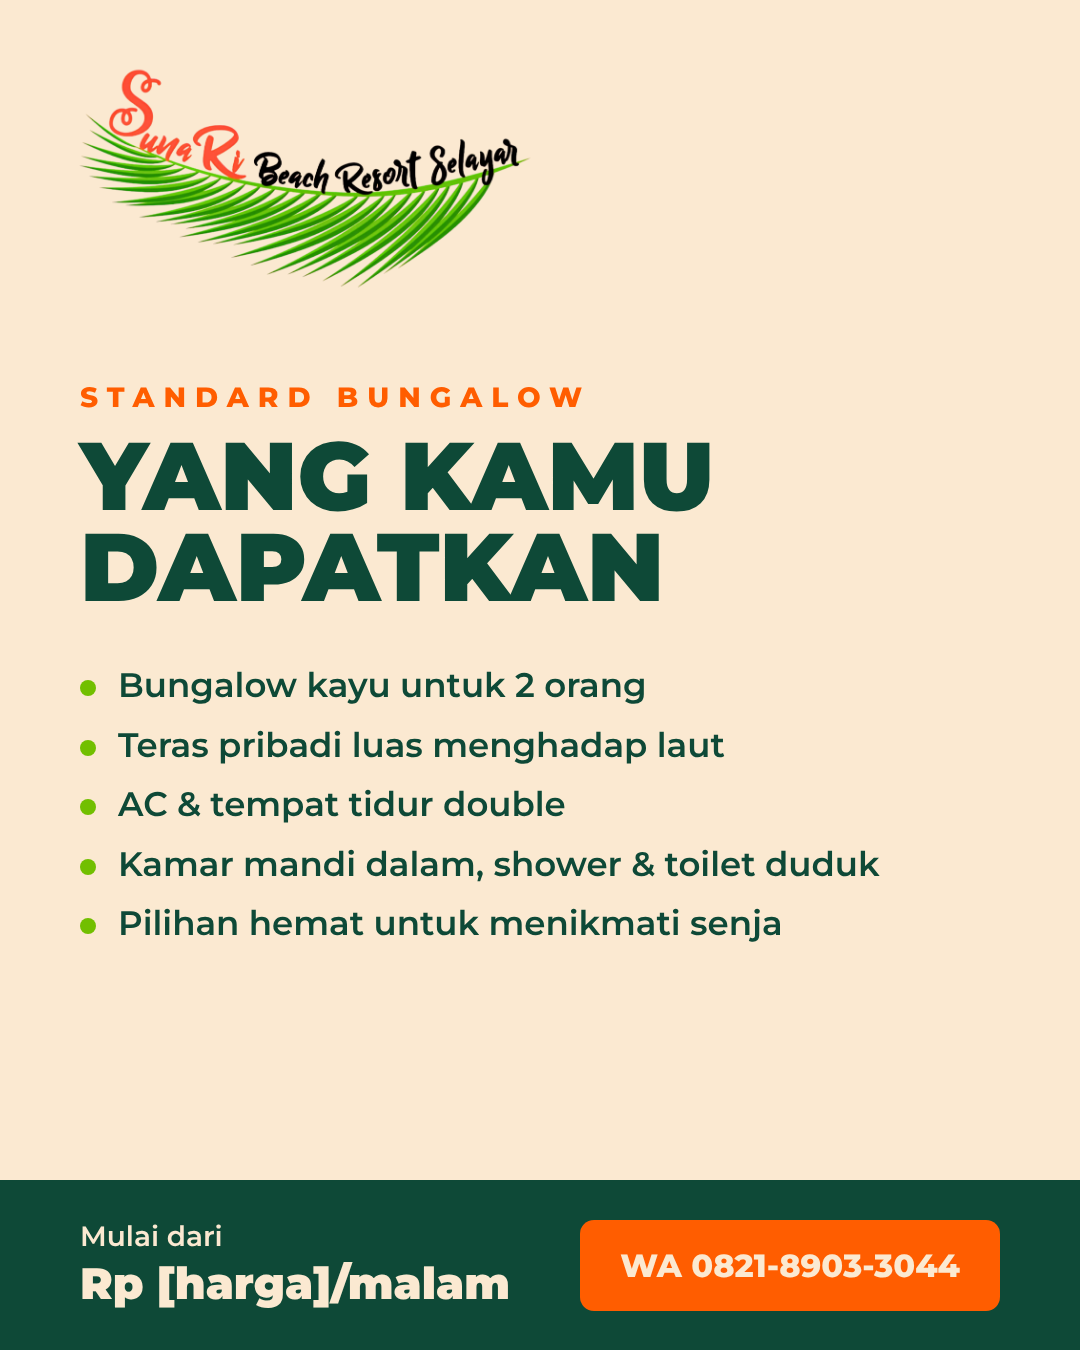
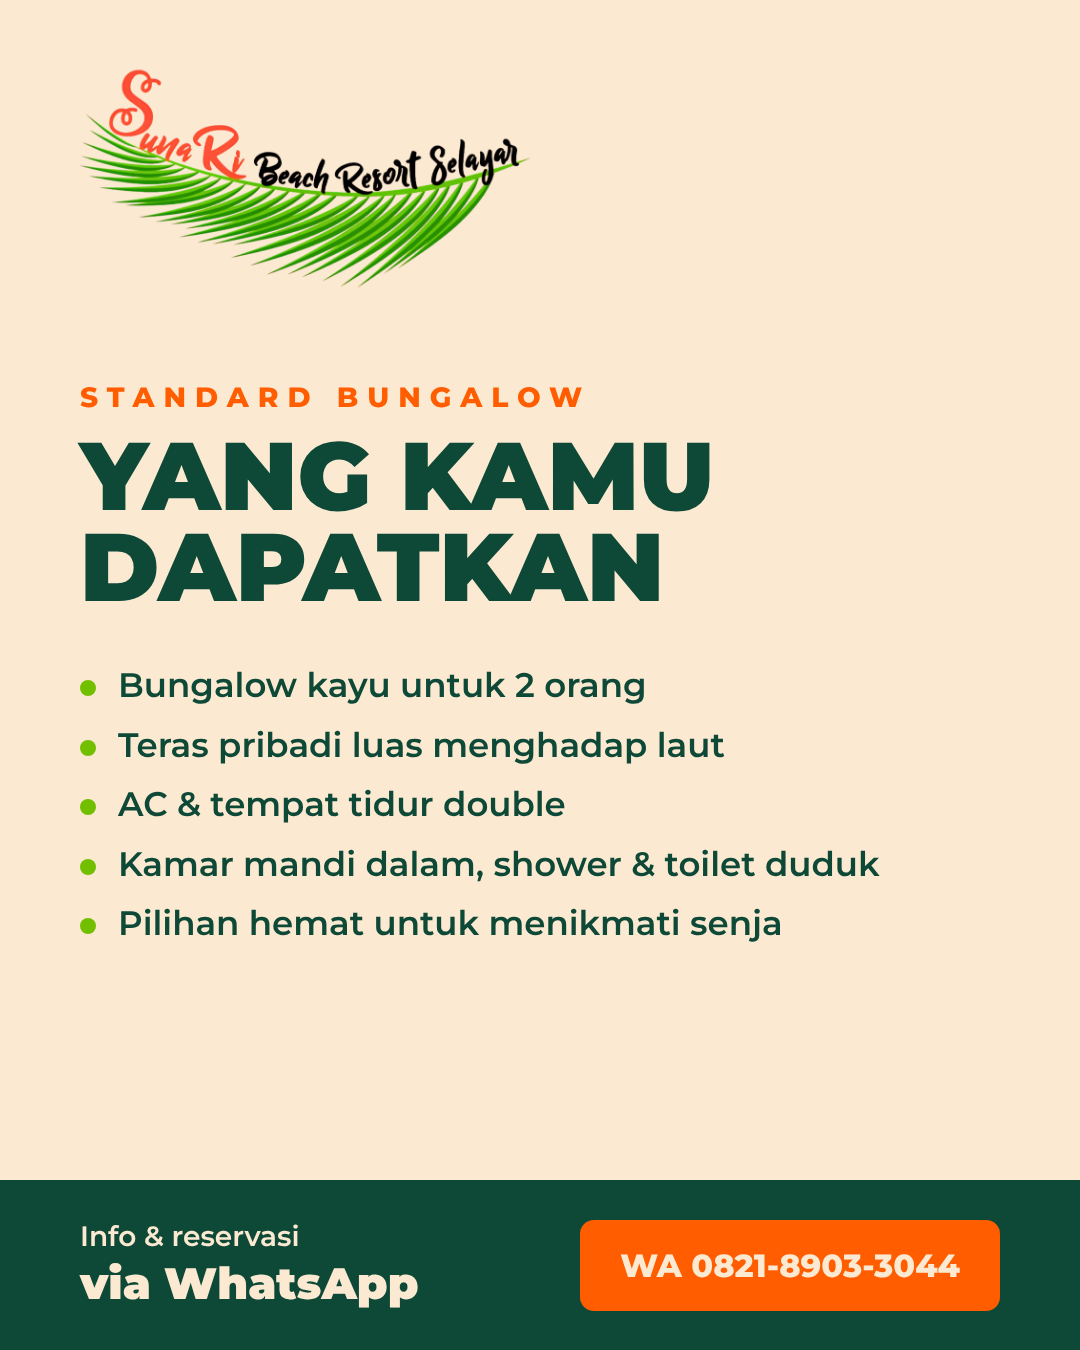
Remove prices and discounts from all materials
Claude-Session: https://claude.ai/code/session_01AizaiBQtsTmWERPRfEgVV4

Changed region(s): [[0.0611, 0.9022, 0.4889, 0.9644]]

diff --git a/social/social-kit.html b/social/social-kit.html
@@ -111,7 +111,7 @@
 <div class="tpl feed" id="feed-promo">
   <svg class="frond" data-frond data-op=".18" style="right:-260px;bottom:120px;width:900px;transform:rotate(-160deg)"></svg>
   <img class="logo" src="../assets/logo-sunari-transparent.png" alt="">
-  <div class="badge"><b>20%</b><span>HEMAT</span></div>
+  <div class="badge"><b>2</b><span>MALAM</span></div>
   <div class="body">
     <div class="kicker">Paket Akhir Pekan</div>
     <h1>Staycation<br>Senja</h1>
@@ -123,7 +123,7 @@
     </ul>
   </div>
   <div class="cta">
-    <div class="price">Mulai dari<b>Rp 1.950.000</b></div>
+    <div class="price">Info &amp; reservasi<b>via WhatsApp</b></div>
     <div class="btn">WA 0821-8903-3044</div>
   </div>
 </div>

diff --git a/social/carousel-standard.html b/social/carousel-standard.html
@@ -90,7 +90,7 @@
     </ul>
   </div>
   <div class="cta">
-    <div class="price">Mulai dari<b>Rp [harga]/malam</b></div>
+    <div class="price">Info &amp; reservasi<b>via WhatsApp</b></div>
     <div class="btn">WA 0821-8903-3044</div>
   </div>
 </div>

diff --git a/social/carousel-superior.html b/social/carousel-superior.html
@@ -98,7 +98,7 @@
     </ul>
   </div>
   <div class="cta">
-    <div class="price">Mulai dari<b>Rp [harga]/malam</b></div>
+    <div class="price">Info &amp; reservasi<b>via WhatsApp</b></div>
     <div class="btn">WA 0821-8903-3044</div>
   </div>
 </div>

diff --git a/social/INSTAGRAM_BULAN_1.md b/social/INSTAGRAM_BULAN_1.md
@@ -47,7 +47,7 @@ WhatsApp +62 821-8903-3044 ⬇
 Jika memakai Linktree / halaman link, urutannya:
 1. **Reservasi WhatsApp: Sofyan**: `https://wa.me/6282189033044?text=Halo%20SunaRi%2C%20saya%20ingin%20reservasi`
 2. **Lokasi (Google Maps)**: `https://maps.app.goo.gl/iUWWHNCT7Vyu4i537`
-3. Cara ke Selayar → Paket & Harga
+3. Cara ke Selayar → Paket & Fasilitas
 
 **Tombol kontak profil** (aktifkan di akun Bisnis Instagram): WhatsApp `+62 821-8903-3044`, alamat sesuai bagian Kontak di bawah.
 
@@ -67,7 +67,7 @@ Jika memakai Linktree / halaman link, urutannya:
 | 🌊 Selayar | Pantai, Taka Bonerate, kuliner lokal |
 | ✈ Cara ke Sini | Rute pesawat & kapal |
 | 💬 Ulasan | Testimoni tamu |
-| 📩 Booking | Harga, cara reservasi, FAQ |
+| 📩 Booking | Cara reservasi, FAQ |
 
 Warna cover highlight: latar **Forest Teal** dengan ikon garis **Light Beige**, atau latar **Light Beige** dengan ikon **Forest Teal**. Jangan dicampur.
 
@@ -230,7 +230,7 @@ Dari jalan setapak sampai ke shower di bawah langit terbuka. 🚿🌿
 Superior Bungalow: rumah kayu kecil yang membuatmu lupa jam,
 sampai matahari mulai turun dan waktunya ke pantai. 🌅
 
-Mulai dari Rp [harga]/malam. Info lengkap: WA 0821-8903-3044.
+Info & reservasi: WA 0821-8903-3044.
 
 #SunaRiSelayar #RoomTour #BeachResort #Selayar
 ```
@@ -369,7 +369,7 @@ Staycation Senja: 2 malam, 2 kali senja. 🌅
 ✔ Senja Dinner ikan bakar untuk 2 orang
 ✔ Kelapa muda setiap sore
 
-Mulai dari Rp [harga]. Hemat [x]% untuk pemesanan bulan ini.
+Info paket & ketersediaan kamar via WhatsApp.
 Reservasi: WA 0821-8903-3044, link di bio.
 
 #SunaRiSelayar #PromoResort #Selayar #StaycationSulsel
@@ -424,7 +424,7 @@ Standard Bungalow: rumah kayu yang sejuk dan bersih,
 dengan teras pribadi yang luas dan langsung menghadap laut.
 Pagi minum kopi sambil melihat ombak, sore tinggal jalan ke pantai untuk menunggu senja. 🌅
 
-Mulai dari Rp [harga]/malam. Info: WA 0821-8903-3044.
+Info & reservasi: WA 0821-8903-3044.
 
 #SunaRiSelayar #RoomTour #Selayar #LiburanHemat #BeachResort
 ```
@@ -494,7 +494,7 @@ Sampai jumpa di tempat senja pulang. 🌅
 ## 5. Data yang Perlu Diisi
 - [x] Nomor WhatsApp & alamat
 - [ ] Username Instagram final
-- [ ] Nama dan harga tiap tipe kamar, kapasitas Family Cottage
+- [ ] Kapasitas tamu tiap tipe kamar
 - [ ] Jam check-in/out, biaya penjemputan
-- [ ] Persetujuan program Sunset Guarantee & diskon peluncuran
+- [ ] Persetujuan program Sunset Guarantee
 - [ ] Nama & izin foto tim (Hari 15), izin repost tamu (Hari 21)

diff --git a/brand/BRAND_GUIDE.md b/brand/BRAND_GUIDE.md
@@ -81,7 +81,7 @@ File di folder `assets/`:
 |---|---|---|---|
 | **Forest Teal** | `#0E4937` | 14, 73, 55 | Warna utama: latar gelap, teks judul |
 | **Light Beige** | `#FBE9D1` | 251, 233, 209 | Latar terang, teks di atas teal (nuansa pasir) |
-| **Vivid Orange** | `#FF5D00` | 255, 93, 0 | Aksen: senja, CTA, harga, promo |
+| **Vivid Orange** | `#FF5D00` | 255, 93, 0 | Aksen: senja, CTA, promo |
 | **Lime Green** | `#72BF00` | 114, 191, 0 | Aksen segar: ikon, garis, sorotan kecil |
 
 **Proporsi (aturan 60–25–10–5)**
@@ -120,7 +120,7 @@ Logo memakai huruf **tulisan tangan/kuas**. Agar logo tetap menonjol, font penda
 
 ### 4.5 Elemen Grafis
 - **Motif daun kelapa** (diambil dari logo) di sudut desain, dipakai dengan opacity rendah.
-- **Lingkaran matahari** Vivid Orange untuk menyorot jam senja atau harga.
+- **Lingkaran matahari** Vivid Orange untuk menyorot jam senja atau angka penting.
 - Sudut membulat kecil (8–16px). Garis tipis Lime sebagai pemisah.
 
 ---
@@ -175,7 +175,7 @@ Logo memakai huruf **tulisan tangan/kuas**. Agar logo tetap menonjol, font penda
 | **Kamar & Fasilitas** | 20% | Room tour, detail interior |
 | **Pesona Selayar** | 20% | Taka Bonerate, kuliner, budaya, cara ke Selayar |
 | **Cerita Tamu** | 15% | Repost tamu, testimoni |
-| **Promo & Info** | 15% | Paket, harga, event |
+| **Promo & Info** | 15% | Paket, fasilitas, event |
 
 ### Kalender mingguan (contoh)
 | Hari | Feed | Story |
@@ -231,6 +231,9 @@ Folder `social/`:
 
 Penulisan di materi desain: **WA 0821-8903-3044** (Sofyan).
 
+**Kebijakan harga:** jangan mencantumkan harga atau persentase diskon di media sosial maupun materi desain.
+Arahkan calon tamu untuk menanyakan harga dan ketersediaan via WhatsApp.
+
 ## 10. Yang Perlu Dikonfirmasi
-- Harga kamar, kapasitas tamu, akun Instagram resmi
+- Kapasitas tamu, akun Instagram resmi
 - Pengecekan merek "SunaRi" di PDKI (DJKI) dan ketersediaan domain

diff --git a/README.md b/README.md
@@ -15,7 +15,7 @@ Aset brand untuk resort tepi pantai di Kepulauan Selayar dengan pemandangan mata
 `#0E4937` Forest Teal · `#FBE9D1` Light Beige · `#FF5D00` Vivid Orange · `#72BF00` Lime Green
 
 ## Membuat ulang template media sosial
-Edit teks (jam senja, harga, dll.) di `social/social-kit.html`, lalu jalankan:
+Edit teks (jam senja, teks, dll.) di `social/social-kit.html`, lalu jalankan:
 ```
 node social/render.js
 ```
